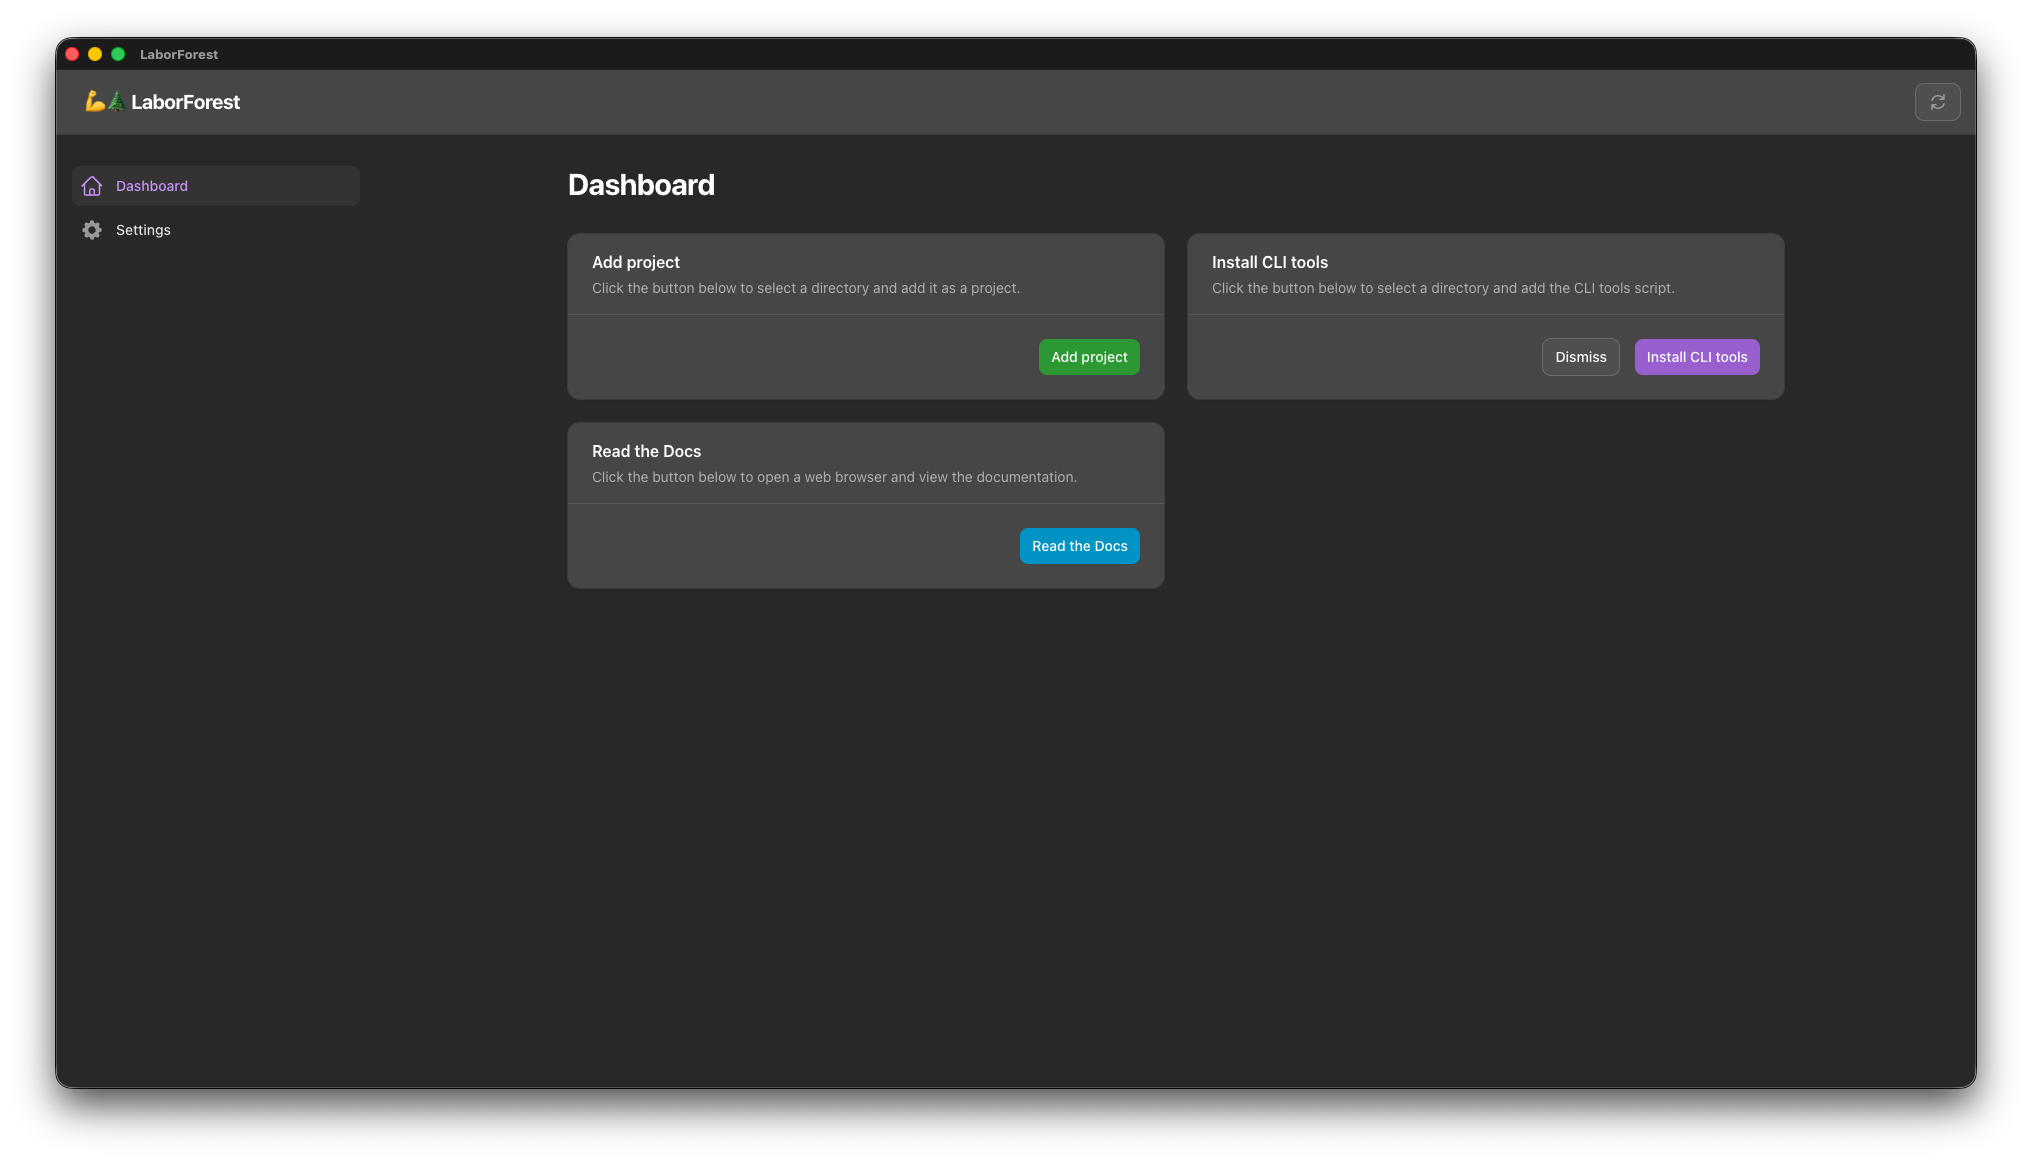
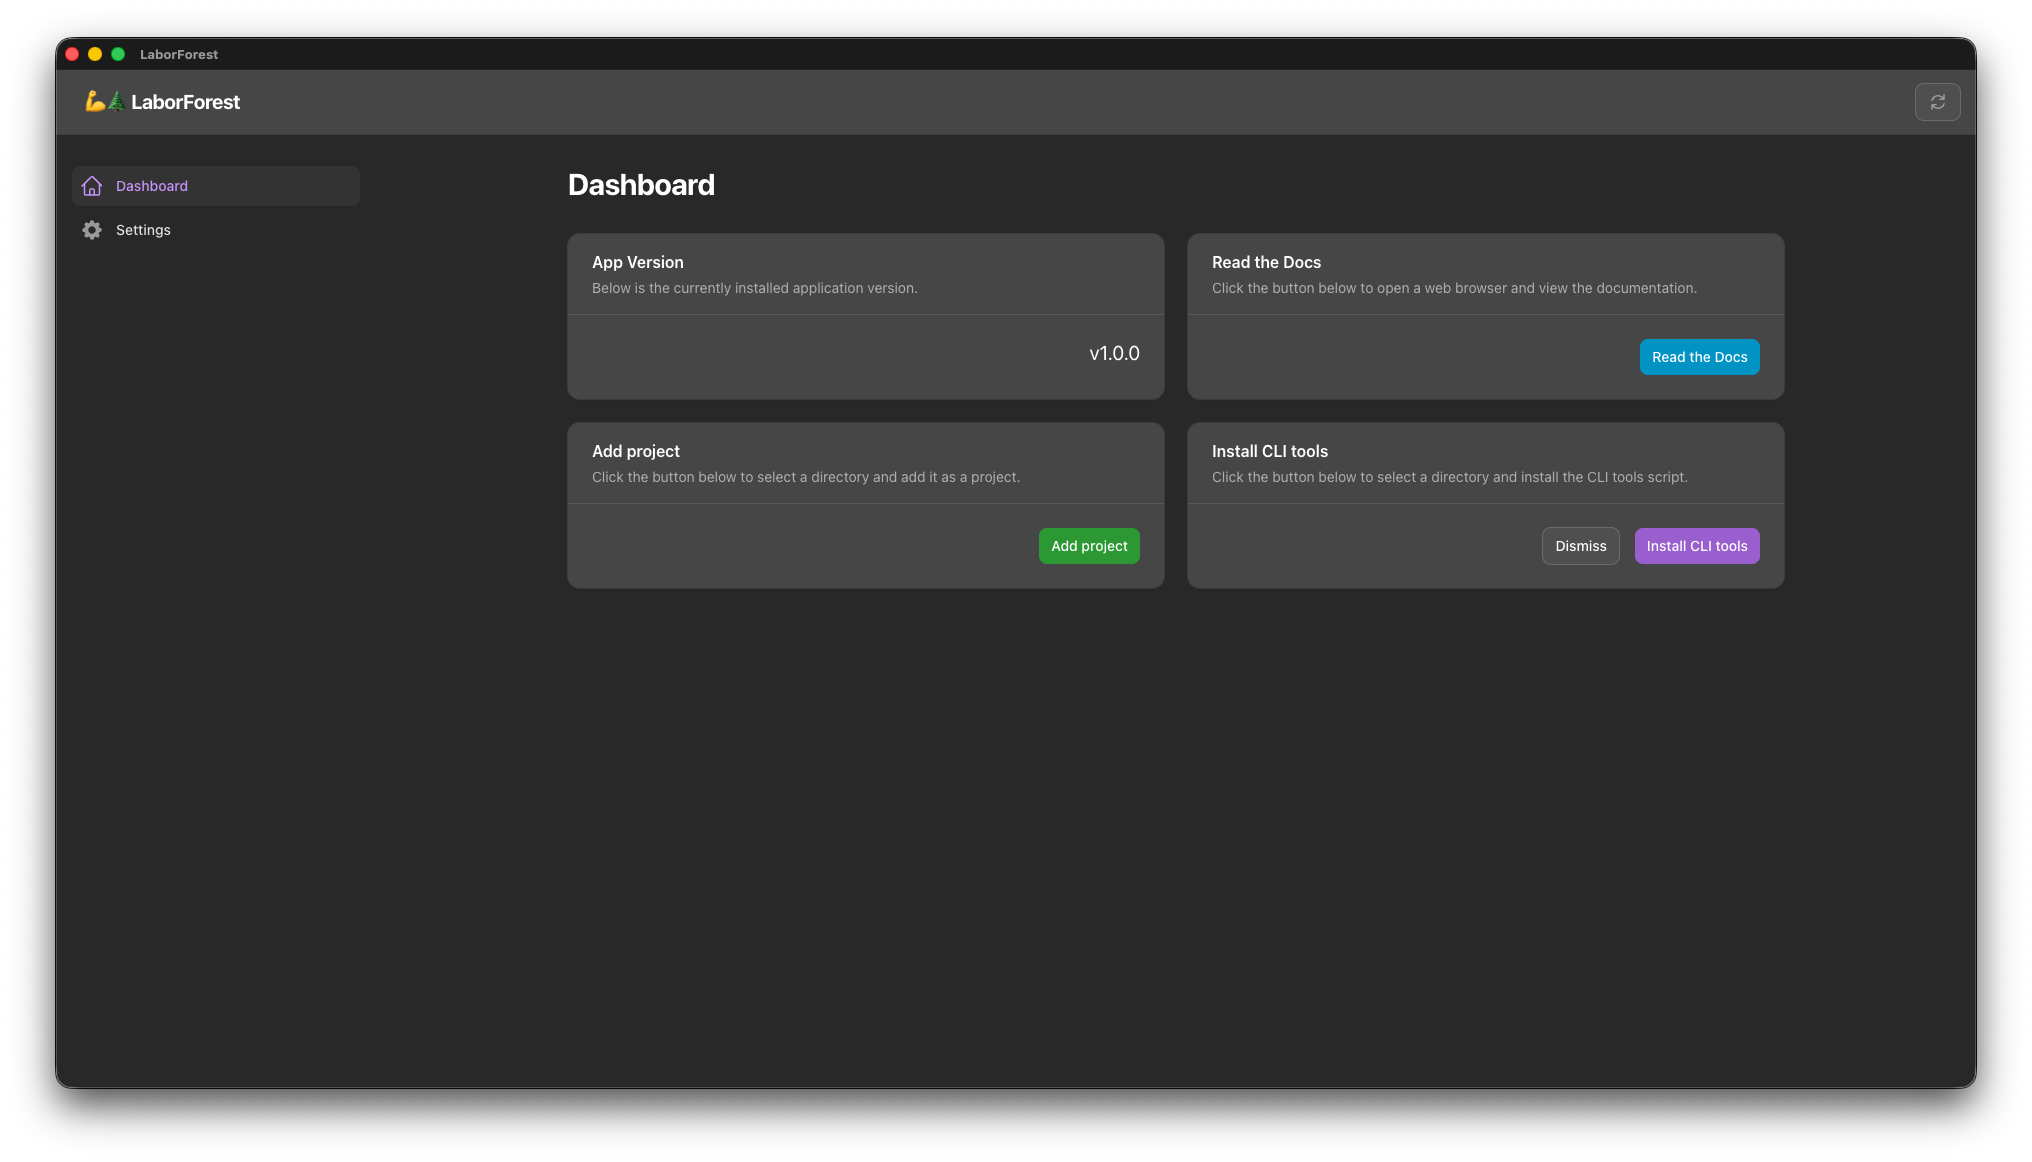
add AppVersionWidget, reorder dashboard widgets, update docs, tests

diff --git a/tests/Feature/AppVersionWidgetTest.php b/tests/Feature/AppVersionWidgetTest.php
@@ -1,0 +1,35 @@
+<?php
+
+use App\Filament\Widgets\AppVersionWidget;
+use Illuminate\Support\Facades\Storage;
+use Livewire\Livewire;
+
+beforeEach(function () {
+    Storage::fake('user_home');
+});
+
+describe('render', function () {
+    it('renders the heading and description', function () {
+        Livewire::test(AppVersionWidget::class)
+            ->assertOk()
+            ->assertSee('App Version')
+            ->assertSee('Below is the currently installed application version.');
+    });
+
+    it('renders the configured application version', function () {
+        config()->set('nativephp.version', 'v1.0.0-rc.2');
+
+        Livewire::test(AppVersionWidget::class)
+            ->assertOk()
+            ->assertSee('v1.0.0-rc.2');
+    });
+
+    it('still renders when no application version is configured', function () {
+        config()->set('nativephp.version', null);
+
+        Livewire::test(AppVersionWidget::class)
+            ->assertOk()
+            ->assertSee('App Version')
+            ->assertDontSee('v1.0.0-rc.2');
+    });
+});

diff --git a/resources/views/filament/widgets/app-version-widget.blade.php b/resources/views/filament/widgets/app-version-widget.blade.php
@@ -1,13 +1,13 @@
 <x-filament-widgets::widget>
     <x-filament::section class="h-full">
         <x-slot name="heading">
-            Read the Docs
+            App Version
         </x-slot>
         <x-slot name="description">
-            Click the button below to open a web browser and view the documentation.
+            Below is the currently installed application version.
         </x-slot>
-        <div class="flex justify-end">
-            {{ $this->readDocs }}
+        <div class="flex justify-end text-xl">
+            {{ $appVersion }}
         </div>
     </x-filament::section>
 </x-filament-widgets::widget>

diff --git a/resources/views/filament/widgets/cli-tools-widget.blade.php b/resources/views/filament/widgets/cli-tools-widget.blade.php
@@ -4,7 +4,7 @@
             Install CLI tools
         </x-slot>
         <x-slot name="description">
-            Click the button below to select a directory and add the CLI tools script.
+            Click the button below to select a directory and install the CLI tools script.
         </x-slot>
         <div class="flex justify-end gap-4">
             {{ $this->dismiss }}

diff --git a/app/Filament/Widgets/AppVersionWidget.php b/app/Filament/Widgets/AppVersionWidget.php
@@ -1,0 +1,17 @@
+<?php
+
+namespace App\Filament\Widgets;
+
+use Filament\Widgets\Widget;
+
+class AppVersionWidget extends Widget
+{
+    protected static ?int $sort = 1;
+
+    protected string $view = 'filament.widgets.app-version-widget';
+
+    protected function getViewData(): array
+    {
+        return ['appVersion' => config('nativephp.version')];
+    }
+}

diff --git a/app/Filament/Widgets/InstallCliToolsWidget.php b/app/Filament/Widgets/InstallCliToolsWidget.php
@@ -22,7 +22,7 @@ class InstallCliToolsWidget extends Widget implements HasActions, HasSchemas
     use InteractsWithActions;
     use InteractsWithSchemas;
 
-    protected static ?int $sort = 2;
+    protected static ?int $sort = 4;
 
     protected string $view = 'filament.widgets.cli-tools-widget';
 

diff --git a/app/Filament/Widgets/AddProjectWidget.php b/app/Filament/Widgets/AddProjectWidget.php
@@ -23,7 +23,7 @@ class AddProjectWidget extends Widget implements HasActions, HasSchemas
     use InteractsWithActions;
     use InteractsWithSchemas;
 
-    protected static ?int $sort = 1;
+    protected static ?int $sort = 3;
 
     protected string $view = 'filament.widgets.add-project-widget';
 

diff --git a/app/Filament/Widgets/ReadDocsWidget.php b/app/Filament/Widgets/ReadDocsWidget.php
@@ -17,7 +17,7 @@ class ReadDocsWidget extends Widget implements HasActions, HasSchemas
     use InteractsWithActions;
     use InteractsWithSchemas;
 
-    protected static ?int $sort = 3;
+    protected static ?int $sort = 2;
 
     protected string $view = 'filament.widgets.read-docs-widget';
 

diff --git a/docs/dashboard.md b/docs/dashboard.md
@@ -6,6 +6,14 @@ The Dashboard is the landing screen when you first open LaborForest. You can nav
 
 ![LaborForest - Dashboard](images/dashboard.png)
 
+## Current application version
+
+The current application version installed to your device is shown in widget on the dashboard.
+
+## Reading the documentation
+
+Clicking `Read the Docs` opens the LaborForest documentation on GitHub in your default web browser.
+
 ## Adding a project
 
 Click the green `Add project` button and select the root of your project directory. The directory must already be a git repository, it must not already be registered with LaborForest, and its git status must be clean. Adding a project with uncommitted changes fails with an error notification.
@@ -14,15 +22,12 @@ Adding a project creates a `.laborforest` directory at the root of the repositor
 
 Once the project is added, LaborForest opens it automatically.
 
-## Adding CLI tools
+## Installing CLI tools
 
 LaborForest ships with CLI tools that let you add a `Project` or run a `Workflow` from the command line. You must install them into a directory on your system `PATH` before you can use them. Read more about the CLI tools [here](cli-tools.md).
 
 The `Install CLI tools` panel also has a `Dismiss` button. Dismissing hides the panel permanently, and there is no way to bring it back from the UI. To show it again, set `cli_tools_dismissed` to `false` in `~/.laborforest/settings.yaml`.
 
-## Reading the Docs
-
-Clicking `Read the Docs` opens the LaborForest documentation on GitHub in your default web browser.
 
 ---
 
